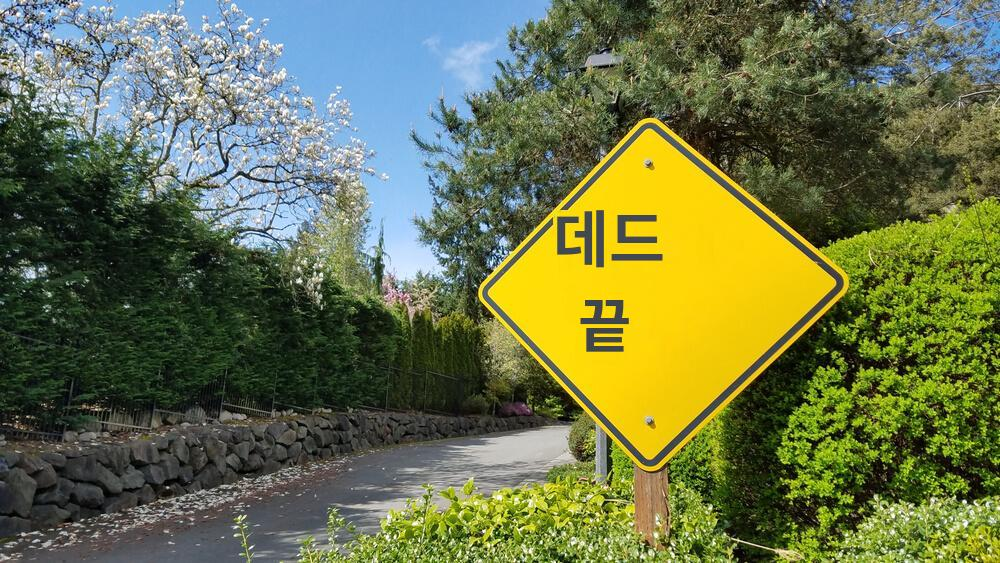
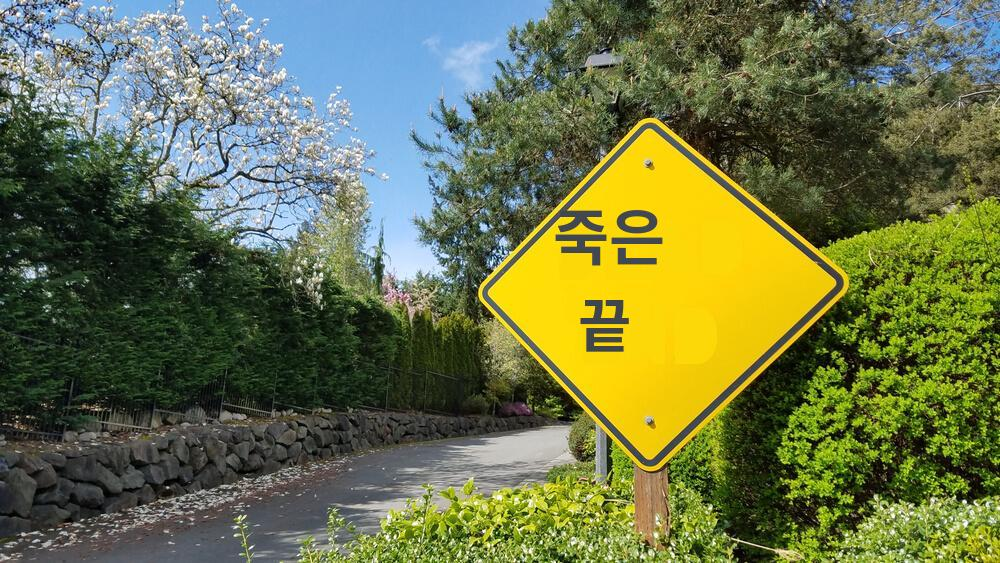
Without inpainting fail

Changed region(s): [[0.527, 0.3623, 0.682, 0.4831]]

diff --git a/TEST_JW/without inpainting.py b/TEST_JW/without inpainting.py
@@ -52,10 +52,10 @@ def easy_ocr_result(img, language='en', draw=True, text=False):
     # 텍스트 리스트
     text_list = []
 
-    if draw == False: # 원래 이미지만 출력
+    if draw == False:  # 원래 이미지만 출력
         display(img)
 
-    elif draw == True and text == False: # 이미지에 바운딩 박스그리기
+    elif draw == True and text == False:  # 이미지에 바운딩 박스그리기
         img2 = img.copy()
         # img2 = cv2.cvtColor(img2, cv2.COLOR_GRAY2BGR)
         for (bbox, text, prob) in results:
@@ -128,36 +128,53 @@ def translate_texts(texts: List[str], type='google') -> List[str]:
                 print("Error Code:", rescode)
 
     return tranlated_texts
-def cut_image(img, bbox):
+
+
+def cut_image(ori_img, bbox):
     x_min = bbox[0, 0]
     x_max = bbox[1, 0]
     y_min = bbox[0, 1]
     y_max = bbox[2, 1]
 
-    img = img[y_min:y_max, x_min:x_max]
-
+    img = ori_img[y_min:y_max, x_min:x_max]
+    # quarter_y = np.int32(y_max - (y_max - y_min) / 3)
+    #
+    # crop_img = ori_img[quarter_y:y_max, x_min:x_max]
     return img
 
-def mask_image(img2):
-    # masking 작업
-    img_gray = cv2.cvtColor(img2, cv2.COLOR_BGR2GRAY)
 
-    _, mask = cv2.threshold(img_gray, 0, 255, cv2.THRESH_OTSU)
 
-    # 글씨 색이 밝든 어둡든 masking 씌워주기
-    return_rgb = rgb(img2)
+def mask_image(cut_img, reverse_list):
+    img_width = cut_img.shape[1]
+    img_height = cut_img.shape[0]
+    img_gray = cv2.cvtColor(cut_img, cv2.COLOR_BGR2GRAY)
+    _, thresh = cv2.threshold(img_gray, 127, 255, cv2.THRESH_BINARY)
+    return_rgb = rgb(cut_img)
     if return_rgb != 0:
-        mask = cv2.bitwise_not(mask)
+        thresh = cv2.bitwise_not(thresh)
 
-    kernel = np.ones((3, 3), np.uint8)
-    mask = cv2.dilate(mask, kernel, iterations=2)
-    mask = cv2.morphologyEx(mask, cv2.MORPH_CLOSE, kernel)
+    kernel = np.ones((5, 5), np.uint8)
+    dilation = cv2.dilate(thresh, kernel, iterations=1)
+    contours, hierarchy = cv2.findContours(dilation, cv2.RETR_EXTERNAL, 3)
 
-    # contours, hierarchy = cv2.findContours(mask, cv2.RETR_EXTERNAL, 3)
-    # img_contour = cv2.drawContours(img_original, contours, -1, (0, 255, 0), 3)
+    cut_img = cv2.cvtColor(cut_img, cv2.COLOR_BGR2RGB)
+    index_box = []
+    for x in range(len(contours)):
+        if 0 not in contours[x]:
+            for i in range(len(contours[x])):
+                if img_width - 2 <= contours[x][i][0][0] or img_height - 2 <= contours[x][i][0][1]:
+                    break
+                else:
+                    index_box.append(x)
+    index_box = set(index_box)
+    new_conoturs = []
+    for x in index_box:
+        new_conoturs.append(contours[x])
 
-    # plt.imshow(mask)
-    # plt.show()
+    reverse_list
+    result = list(map(int, color_list[0][reverse_list[0][0]]))
+    mask = cv2.drawContours(cut_img, new_conoturs, -1, tuple(result), thickness=cv2.FILLED)
+    mask = cv2.cvtColor(mask, cv2.COLOR_BGR2RGB)
     return mask
 
 
@@ -167,8 +184,9 @@ def change_original(masked_img, bbox):
     y_min = bbox[0, 1]
     y_max = bbox[2, 1]
 
-    img[y_min:y_max, x_min:x_max] =  masked_img
+    img[y_min:y_max, x_min:x_max] = masked_img
     return img
+
 
 # 123
 def rgb(img):
@@ -176,10 +194,11 @@ def rgb(img):
     _, mask = cv2.threshold(gray, 127, 255, cv2.THRESH_BINARY)
 
     flat_list = list(mask.ravel())
-    if flat_list.count(0) > len(flat_list)/2:
+    if flat_list.count(0) > len(flat_list) / 2:
         return 0
 
-def rewrite(tranlated_texts ,bbox_list, color, index):
+
+def rewrite(tranlated_texts, bbox_list, color, index):
     # 폰트( 구글 폰트에서 이용가능 ) , 폰트크기
 
     image_path = 'output_inpainting'
@@ -198,11 +217,12 @@ def rewrite(tranlated_texts ,bbox_list, color, index):
         font_size = decsion_font_size(bbox_hi, text)
         title_font = ImageFont.truetype('ttf/NotoSansKR-Bold.otf', font_size)
         result = list(map(int, color[idx][index[idx][1]]))
-        image_editable.text((bbox[0][0], bbox[0][1]), text, tuple(result), anchor = 'lt', font=title_font)
+        image_editable.text((bbox[0][0], bbox[0][1]), text, tuple(result), anchor='lt', font=title_font)
 
     save_rewrite_images(img)
 
-def decsion_font_size( bbox_hi, text):
+
+def decsion_font_size(bbox_hi, text):
     font_size = 1
     title_font = ImageFont.truetype('ttf/NotoSansKR-Bold.otf', font_size)
     _, hi = title_font.getsize(text)
@@ -213,29 +233,31 @@ def decsion_font_size( bbox_hi, text):
     return font_size
 
 
-
 def save_inpainting_images():
     image_path = f'output_inpainting'
     save_img = Image.fromarray(cv2.cvtColor(img, cv2.COLOR_BGR2RGB))
     save_img.save(f"{image_path}/{file_path}")
 
+
 def save_rewrite_images(img):
     image_path = 'output_rewrite'
     img.save(f"{image_path}/{file_path}")
 
+
 def clt_(img):
     img = cv2.cvtColor(img, cv2.COLOR_BGR2RGB)
-    img = img.reshape((img.shape[0] * img.shape[1], 3)) # height, width 통합
+    img = img.reshape((img.shape[0] * img.shape[1], 3))  # height, width 통합
 
-    k = 3 # 예제는 5개로 나누겠습니다
-    clt = KMeans(n_clusters = k, random_state=0)
+    k = 3  # 예제는 5개로 나누겠습니다
+    clt = KMeans(n_clusters=k, random_state=0)
     clt.fit(img)
     return clt
+
 
 def centroid_histogram(clt):
     # grab the number of different clusters and create a histogram
     # based on the number of pixels assigned to each cluster
-    numLabels = np.arange(0, len(np.unique(clt.labels_))+1)
+    numLabels = np.arange(0, len(np.unique(clt.labels_)) + 1)
     (hist, _) = np.histogram(clt.labels_, bins=numLabels)
 
     # normalize the histogram, such that it sums to one
@@ -244,14 +266,6 @@ def centroid_histogram(clt):
     # return the histogram
     return hist
 
-def contour_mask(mask):
-    contour_pos = []
-    contours, hierarchy = cv2.findContours(mask, cv2.RETR_EXTERNAL, 3)
-
-    for pos in range(len(contours)):
-        area = cv2.contourArea(contours[pos])
-        if area > 100:
-            contour_pos.append(pos)
 
 # Press the green button in the gutter to run the script.
 if __name__ == '__main__':
@@ -262,17 +276,16 @@ if __name__ == '__main__':
     color_list = []
     reverse_sorted_index = []
     for bbox in bbox_list:
-        img_cut = cut_image(img, bbox)
+        img_cut  = cut_image(img, bbox)
         clt = clt_(img_cut)
         hist = centroid_histogram(clt)
         color_list.append(clt.cluster_centers_)
         reverse_index = (-hist).argsort()
         reverse_sorted_index.append(reverse_index)
-
-        mask = mask_image(img_cut)
-        masked_img = cv2.inpaint(img_cut, mask, 3, cv2.INPAINT_TELEA)
-        img = change_original(masked_img, bbox)
+        # print('bbox : ', bbox)
+        mask = mask_image(img_cut, reverse_sorted_index)
+        img = change_original(mask, bbox)
 
     save_inpainting_images()
-    rewrite(tranlated_texts,bbox_list,color_list, reverse_sorted_index)
+    rewrite(tranlated_texts, bbox_list, color_list, reverse_sorted_index)
 

diff --git a/TEST_JW/testfile.py b/TEST_JW/testfile.py
@@ -20,10 +20,6 @@ def mask_image(img):
     img_gray = cv2.cvtColor(img, cv2.COLOR_BGR2GRAY)
     _, mask = cv2.threshold(img_gray, 0, 255, cv2.THRESH_OTSU)
 
-    # 색상 검출해서 글씨 색이 밝든 어둡든 masking 씌워주기
-    # 글이 어두운색 이면,
-    # if 'dark':
-    #     mask = cv2.bitwise_not(mask)
     mask = cv2.bitwise_not(mask)
     kernel = np.ones((3, 3), np.uint8)
     mask = cv2.dilate(mask, kernel, iterations=2)
@@ -63,14 +59,14 @@ def centroid_histogram(clt):
     # return the histogram
     return hist
 
-def draw_contour(img):
+def draw_contour(img,result):
     img_gray = cv2.cvtColor(img, cv2.COLOR_BGR2GRAY)
     _, thresh = cv2.threshold(img_gray, 127, 255, cv2.THRESH_BINARY)
     return_rgb = rgb(img)
     if return_rgb != 0:
         thresh = cv2.bitwise_not(thresh)
     kernel = np.ones((5, 5), np.uint8)
-    dilation = cv2.dilate(thresh, kernel, iterations=1)
+    dilation = cv2.dilate(thresh, kernel, iterations=2)
     closing = cv2.morphologyEx(dilation, cv2.MORPH_CLOSE, kernel)
     contours, hierarchy = cv2.findContours(closing, cv2.RETR_EXTERNAL, 3)
 
@@ -78,17 +74,46 @@ def draw_contour(img):
     for x in range(len(contours)):
         if 0 not in contours[x]:
             for i in range(len(contours[x])):
-                if img_width-5 <= contours[x][i][0][0] or img_height-5 <= contours[x][i][0][1]:
+                if img_width-10 <= contours[x][i][0][0] or img_height-10 <= contours[x][i][0][1]:
                    break
                 else:
                     index_box.append(x)
+    index_box = set(index_box)
     new_conoturs = []
+
     for x in index_box:
         new_conoturs.append(contours[x])
 
-    img_contour = cv2.drawContours(img, new_conoturs, -1, (0, 255, 0), thickness=cv2.FILLED)
+    mask = cv2.drawContours(img, new_conoturs, -1, tuple(result), thickness=cv2.FILLED)
 
-    return img_contour
-img_contour = draw_contour(img)
-cv2.imshow('gg', img_contour)
+    return thresh, mask
+
+def return_img(img):
+    x_min = 0
+    x_max = 100
+    y_min = 0
+    y_max = 100
+
+    quarter_y = int(y_max - (y_max - y_min) / 4)
+    crop_img = img[quarter_y:y_max, x_min:x_max]
+    img = img[y_min:y_max, x_min:x_max]
+    return crop_img, img
+
+crop_img, img = return_img(img)
+img = cv2.cvtColor(crop_img, cv2.COLOR_BGR2RGB)
+cv2.imshow('gg', img)
 cv2.waitKey(0)
+
+# color_list = []
+# reverse_sorted_index = []
+#
+# clt = clt_(img)
+# hist = centroid_histogram(clt)
+# color_list.append(clt.cluster_centers_)
+# reverse_index = (-hist).argsort()
+# reverse_sorted_index.append(reverse_index)
+# result = list(map(int, color_list[0][reverse_sorted_index[0][0]]))
+#
+# t, img_contour= draw_contour(img, result)
+# cv2.imshow('gg', img_contour)
+# cv2.waitKey(0)
